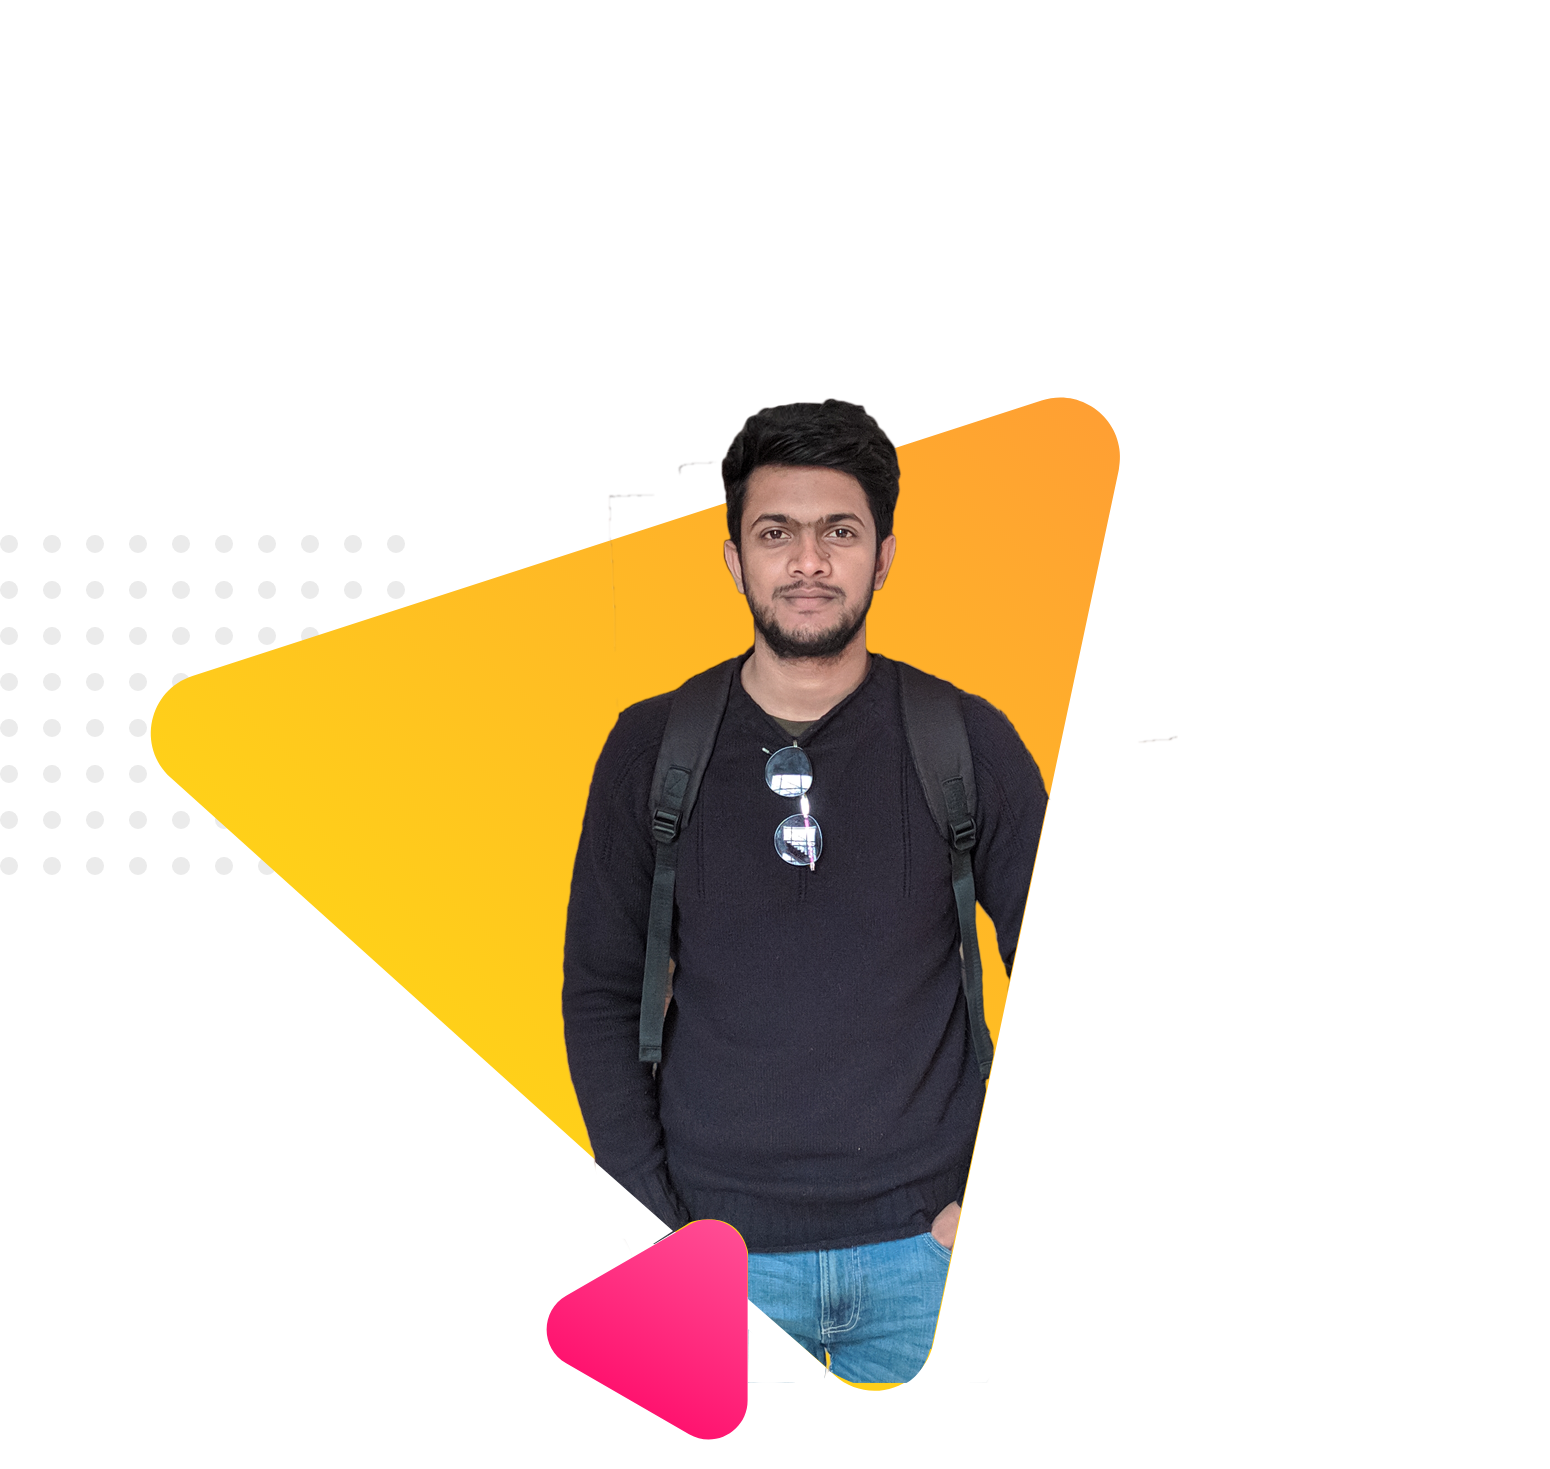
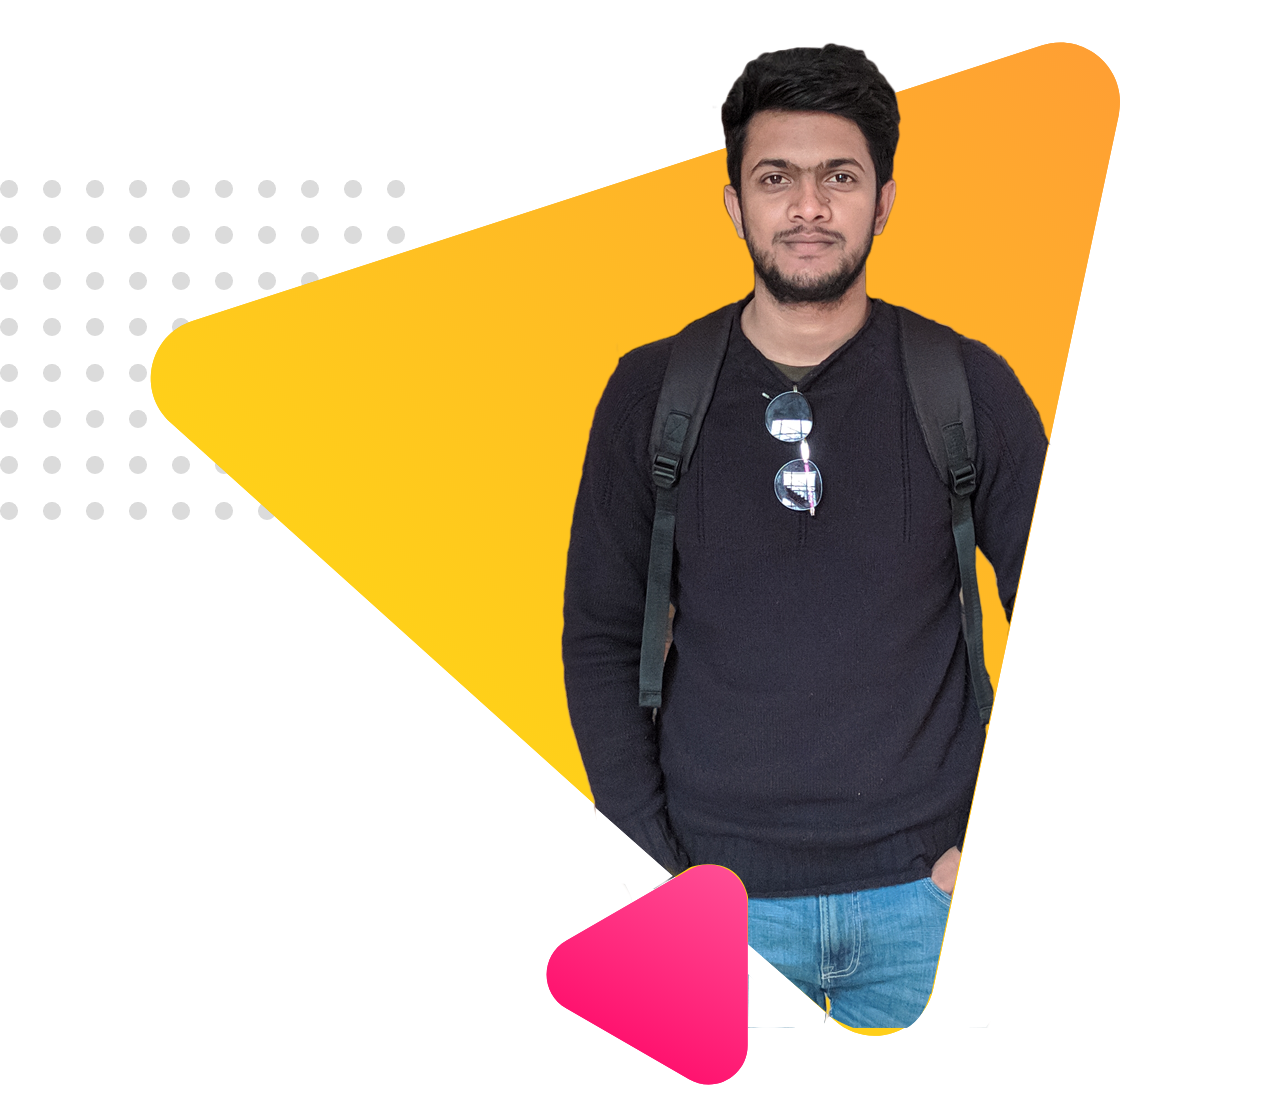
2 sections updated

diff --git a/index.html b/index.html
@@ -6,10 +6,39 @@
    <!--style-->
     <link rel="stylesheet" href="css/style.css">
    <!--Google font -->
-    <link href="https://fonts.googleapis.com/css?family=Poppins&display=swap" rel="stylesheet">
-    <title>Ppersonal Portfolio</title>
+   <link href="https://fonts.googleapis.com/css?family=Poppins:400,500,600,700&display=swap" rel="stylesheet">
 </head>
 <body>
-    
+    <!--Header Part Section start-->
+    <section class="header-part">
+        <div class="half-width">
+            <h2>Hello I'm,</h2>
+            <h1 class="purple-color">MI Minhaz</h1>
+            <p>Hi my name is Minhaz. I'm a Bangladeshi Web Developer and also working on projects for clients and all over the world. I have diverse set of skills ranging from Html,CSS, Bootstrap and all the way to Javascript.</p>
+
+            <a class="hireme-button" target="_blank" href="https://www.facebook.com/mi.minhaz.0">Hire me</a>
+        </div>
+        <div class="half-width">
+            <img src="/images/minhaz.png" alt="image">
+        </div>
+    </section>
+    <!--End of header part section-->
+   
+    <!--Biography Part Section start-->
+    <section class="biography-part">
+       
+        <div class="half-width">
+            <img src="/images/minhaz_bio.png" alt="image">
+        </div>
+       
+        <div class="half-width half-bio">
+            <h1 class="biography">Biography</h1>
+            <p>You can say Web devoloping and programming is my passion. And that is why i've decided to complete my graduation in "Computer science and Engineering". And here i'm the graduated one. Beside Web developing and programming, i love to travel and take pictures. here's my complete CV, you can download it by simply just click on "Download cv" button. Thank you. </p>
+
+            <a class="cv-button" target="_blank" href="">Download cv</a>
+        </div>
+        
+    </section>
+    <!--End of Biography part section-->
 </body>
 </html>

diff --git a/css/style.css b/css/style.css
@@ -2,3 +2,68 @@ body{
     margin: 0;
     font-family: 'Poppins', sans-serif;
 }
+section{
+    height: 600px;
+    padding-bottom: 100px;
+}
+
+.purple-color{
+    font-size: 40px;
+    font-weight: 700;
+    color: #ec4c7a;
+    
+}
+h2{
+    font-size: 25px;
+    font-weight: 400;
+}
+p{
+    text-align: justify;
+    padding-bottom: 20px;
+}
+.hireme-button{
+    text-decoration: none;
+    background-image: linear-gradient(45deg, #ec4e8d, #ffaf2b);
+    padding: 10px 20px;
+    border-radius: 10px;
+    color: white;
+    font-weight: 500;
+}
+
+/* header-section background image */
+.header-part{
+    background:linear-gradient(rgba(121, 120, 120, 0.5) , rgba(206, 204, 204, 0.5)), url("/images/bg.jpg") ;
+    /* background-image: url("/images/bg.jpg"); */
+    background-repeat: no-repeat; 
+    background-size: cover;
+}
+.half-width{
+    
+    width: 40%;
+    margin-left: 5%;
+    padding-left: 2%;
+    margin-top: 100px;
+    float: left;
+}
+.half-width img{
+    width: 100%;
+  
+}
+
+/* biography-section  */
+.biography-part{
+    background:linear-gradient(rgba(206, 204, 204, 0.5),rgba(121, 120, 120, 0.5) ), url("/images/bio-bg.jpg") ;
+    background-repeat: no-repeat; 
+    background-size: contain;
+}
+.half-bio{
+    margin-top: 170px;
+}
+.cv-button{
+    text-decoration: none;
+    background-image: linear-gradient(45deg, #4f70e0, #22c4df);
+    padding: 10px 20px;
+    border-radius: 10px;
+    color: white;
+    font-weight: 500;
+}
